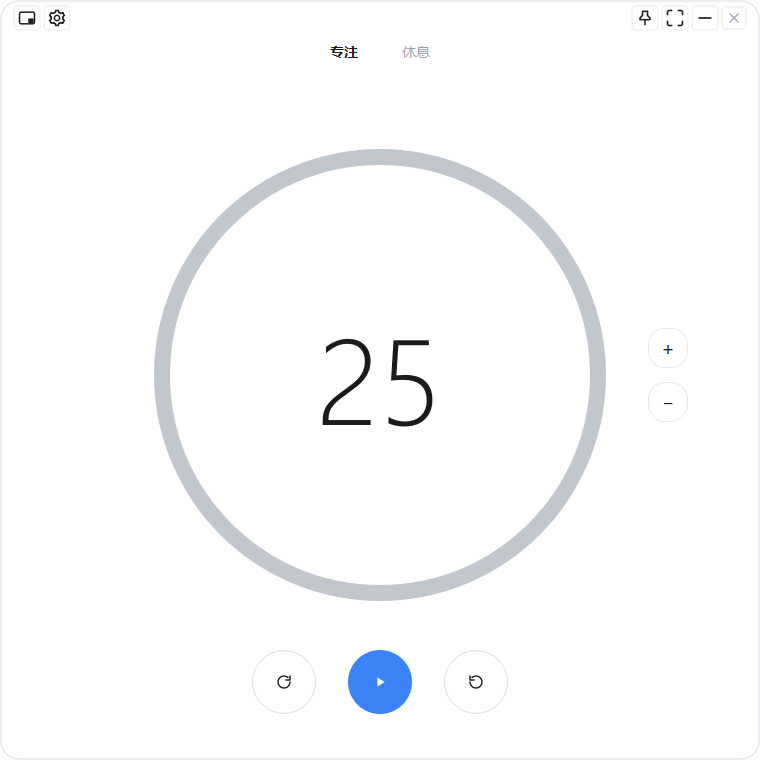
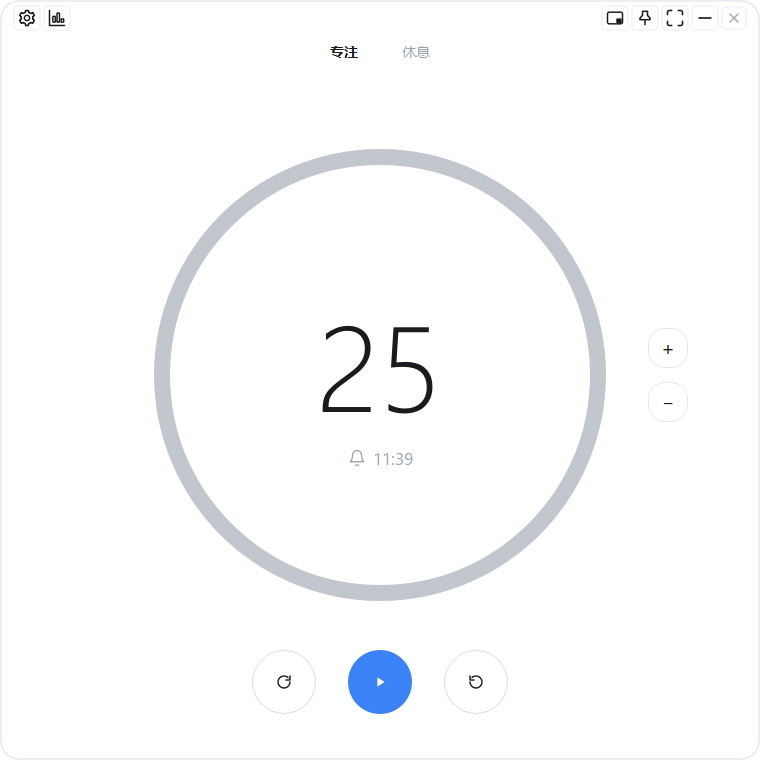
更新

Changed region(s): [[0.4237, 0.4237, 0.575, 0.6053], [0.0303, 0.0, 0.0908, 0.0605], [0.7868, 0.0, 0.8171, 0.0303]]

diff --git a/Bingle时钟设计说明.md b/Bingle时钟设计说明.md
@@ -16,8 +16,8 @@
 | 项   | 内容                                                                  |
 | --- | ------------------------------------------------------------------- |
 | 产品  | Bingle 时钟 —— Windows 桌面极简番茄钟（目录版 exe）                               |
-| 技术栈 | Python 3.14 + PySide6 6.11 + PyInstaller 6.22（--onedir --windowed，单文件版配置见 `Bingle时钟_onefile.spec.bak`） |
-| 产物  | `dist/Bingle时钟/Bingle时钟.exe`（目录版约 87 MB，启动约 1 秒，离线运行，免装 Python）                              |
+| 技术栈 | Python 3.14 + PySide6 6.11 + PyInstaller 6.22（--onedir --windowed） |
+| 产物  | `dist/Bingle时钟/Bingle时钟.exe`（目录版当前约 143 MB，启动约 1 秒，离线运行，免装 Python；分发 zip 约 38 MB）                              |
 | 数据  | `%APPDATA%\PomodoroTimer\config.json`（utf-8-sig 兼容）                 |
 | 音频  | 5 款 Mixkit 免费商用提示音，内嵌于 exe（assets\audio）                            |
 
@@ -63,7 +63,7 @@ pomodoro/
 
 ├── icons.py             内联 SVG → QIcon（黑白线条图标统一出口）
 
-├── widgets.py           TimerRing 自绘圆环进度控件
+├── widgets.py           TimerRing 自绘圆环进度 + FramelessDialog 无边框弹窗基类
 
 ├── main\_window.py       主窗口（无边框圆角、页签、环、操作区、顶栏）
 
@@ -71,7 +71,11 @@ pomodoro/
 
 ├── popup.py             时间到弹窗（右下角、循环音、点任意键关闭）
 
-└── settings\_dialog.py   设置面板（铃声 / 音量 / 开机自启）
+├── settings\_dialog.py   设置面板（铃声 / 音量 / 开机自启）
+
+├── stats.py             专注统计存取（FocusStats，config 内 stats 字段）
+
+└── stats\_dialog.py      专注统计窗口（今日/本周/累计 + 7 天柱状图）
 ```
 
 ### 2.2 计时状态机（state.py）
@@ -110,9 +114,11 @@ pomodoro/
 
 | 窗口             | 要点                                                                                                                     |
 | -------------- | ---------------------------------------------------------------------------------------------------------------------- |
-| MainWindow 主窗  | 无边框（FramelessWindowHint + 圆角 18px + 淡边框 #E1E3E7）、默认 760×760 正方形、min 480×480、WA\_TranslucentBackground、空白处拖动、右下角缩放、全屏切换；顶栏：左[设置]，右[缩小][置顶][全屏][最小化][关闭] |
+| MainWindow 主窗  | 无边框（FramelessWindowHint + 圆角 18px + 淡边框 #E1E3E7）、默认 760×760 正方形、min 480×480、空白处拖动、右下角缩放、全屏切换；顶栏：左[设置][统计]，右[缩小][置顶][全屏][最小化][关闭] |
 | MiniWindow 小窗  | 240×190（可缩放 180×140\~420×320）、置顶、模式名严格居中、时间大号（side×0.24）+ 环进度 + 淡色开始按钮（专注淡蓝 / 休息淡绿）+ 重置 / 开始 / 跳过（32px），右上角放大按钮与双击均可展开回主窗 |
 | PopupWindow 弹窗 | 340×168（内容自适应）、右下角定位（距边缘 24px）、循环提示音（≥10s）、**点任意按钮即停声关窗**；专注结束=开始休息/稍后，休息结束=再休息一会/继续专注/稍后；按钮圆角 6px 等大；**防覆盖**：弹窗期间若用户已在主界面操作，按钮只停声关窗不改状态 |
+| SettingsDialog 设置 | 无边框白底（FramelessDialog 基类）、320×292、顶部标题"设置"+右上角×、可拖动、首次打开居中；提示音选择/试听、音量、开机自启，改动即时生效 |
+| StatsDialog 统计 | 无边框白底（FramelessDialog 基类）、340×285、顶部标题"统计"+右上角×、可拖动、首次打开居中；今日/本周/累计三卡片 + 近 7 天柱状图（自绘）；**打开期间每 5 秒自动刷新**；只统计专注自然走完（跳过/重置不计） |
 
 主窗布局用 **2:3:2 弹性比例**（左右各 20%、中间 60%）控制环的大小：
 
@@ -124,11 +130,15 @@ pomodoro/
 
 
 
-* 配置项：专注时长 / 休息时长 / 专注提示音 / 休息提示音 / 音量 / 置顶 / 开机自启。
+* 配置项：专注时长 / 休息时长 / 专注提示音 / 休息提示音 / 音量 / 置顶 / 开机自启 / 专注统计。
 
 * 写入 `%APPDATA%\PomodoroTimer\config.json`，删除即恢复默认
 
   （专注 25 / 休息 5 / 音量 80 / 不置顶）。
+
+* 专注统计存于同一文件的 `stats` 字段：`{"YYYY-MM-DD": 分钟数}`，按天累计；
+
+  只记录**自然走完的专注**（finished 且模式为专注），跳过 / 重置 / 暂停不计。
 
 * 开机自启通过 Windows 注册表 `HKCU\Software\Microsoft\Windows\CurrentVersion\Run` 写入。
 
@@ -208,6 +218,18 @@ pomodoro/
 
    验证窗口需用 `ctypes.EnumWindows` 全枚举按标题匹配。
 
+9. **弹窗透明背景在部分 Windows 上渲染不可靠**：`FramelessWindowHint + WA_TranslucentBackground`
+
+   曾导致带父窗口的弹窗直接不显示、设置弹窗错位显示不全。修复：弹窗统一改为
+
+   `FramelessDialog` 基类（无边框 + **不透明**白底矩形 + 淡边框 #E1E3E7 + 顶部标题行/关闭按钮），
+
+   `Qt.Tool` 标志避免占任务栏，`showEvent` 首次打开居中（父窗口中心或屏幕中心），按住拖动。
+
+10. **弹窗标题要短**：无边框后无系统标题栏，任务栏标签来自 `setWindowTitle`；统计弹窗
+
+    曾因标题「专注统计 - Bingle时钟」过长被用户诟病，已统一为短名「统计」。
+
 
 
 ***
@@ -220,7 +242,7 @@ pomodoro/
 | --- | -------- | ----------------------------------------------------------------- |
 | 高   | 单实例锁     | 当前可开多个实例，建议用命名互斥体保证单实例，托盘化更好                                      |
 | 高   | 系统托盘     | 关闭按钮改为最小化到托盘，减少误退；提供托盘右键菜单                                        |
-| 中   | exe 体积瘦身 | 已通过 `Bingle时钟.spec` 白名单过滤降至约 37 MB（剔除 WebEngine/opengl32sw/无用插件）；如需再减可尝试 UPX 二次压缩 |
+| 中   | exe 体积瘦身 | 当前目录版 143 MB（PySide6 库占 65 MB）；可再剔除用不到的 Qt 模块/翻译/插件压到约 90 MB，极端可试 UPX 二次压缩（注意杀软误报） |
 | 中   | 高分屏适配    | 建议补充 `Qt.AA_EnableHighDpiScaling` 与 Per-Monitor DPI 测试（当前主窗为逻辑像素） |
 | 中   | 主题扩展     | 当前专注黑白 / 休息绿色点缀；可预留主题配置便于后续换色                                     |
 | 低   | 铃声替换     | 提示音集中在 `assets/audio`，可扩展用户自选铃声目录                                 |
@@ -250,42 +272,47 @@ pomodoro\_app\dist\Bingle时钟\Bingle时钟.exe（目录版，约 87 MB）
 >
 > 的时间戳与真机启动为准。
 >
-> **体积与启动对比**：PySide6 官方 hook 会把 Qt 全家桶（含 194MB 的 WebEngine、FFmpeg、软件 OpenGL）一并打包，
-> 未瘦身时约 55 MB。`Bingle时钟.spec` 通过白名单过滤只保留
-> QtCore/Gui/Widgets/Multimedia/Network/Svg 六个库与必要插件、翻译，
+> **体积与启动**：PySide6 官方 hook 会把 Qt 全家桶（含 194MB 的 WebEngine、FFmpeg、软件 OpenGL）一并打包。
+> `Bingle时钟.spec` 通过白名单过滤只保留 QtCore/Gui/Widgets/Multimedia/Network/Svg 六个库与必要插件、翻译，
 > 剔除 opengl32sw 与无用图片格式插件。
-> 两种交付形式（`Bingle时钟_onefile.spec.bak` 保留单文件配置，可一键重建）：
-> - **目录版 onedir（当前正式版）**：约 87 MB，免解压，实测启动约 **1 秒**（冷 2.6s / 热 0.9s）；
-> - 单文件版 onefile：约 37 MB，每次启动自解压 + 杀毒扫描，实测 **5-7 秒**。
-> 注意：**FFmpeg（av\*.dll）不可删**——QMediaPlayer 播放 mp3 依赖它解码；
-> QtNetwork/QtMultimediaWidgets 的 DLL 必须保留——PySide6 hook 会连带收集对应 pyd，删了启动即崩。
+> - **目录版 onedir（当前正式版）**：exe 本体约 2 MB，加 `_internal`（Python 运行时 + Qt 库）整个目录约 143 MB，
+>   免解压，实测启动约 **1 秒**（冷 2.6s / 热 0.9s）；分发时压缩为 zip 约 **38 MB**（GitHub Releases 附件）。
+> - 体积构成大头：`_internal/PySide6`（Qt 库约 65 MB）、`_internal` 其余（Python 运行时 + 加密库约 20 MB）。
+> - 注意：**FFmpeg（av\*.dll）不可删**——QMediaPlayer 播放 mp3 依赖它解码；
+>   QtNetwork/QtMultimediaWidgets 的 DLL 必须保留——PySide6 hook 会连带收集对应 pyd，删了启动即崩。
 
-### 目录结构（瘦身后）
+### 目录结构（当前）
 
 
 
 ```
-new-chat/
+E:\Code\comate-zulu-demo\Bingle时钟\        # 项目根（已迁入，git 仓库）
 
 ├── pomodoro\_app/                  # 工程（源码 + 打包产物）
 
 │   ├── main.py                    # 入口
 
-│   ├── pomodoro/                  # 源码模块（10 个文件）
+│   ├── pomodoro/                  # 源码模块（13 个文件，见 2.1）
 
 │   ├── assets/audio/              # 内嵌提示音
 
 │   ├── dist/Bingle时钟/           # 交付物（目录版：exe + _internal）
 
-│   ├── Bingle时钟.spec            # PyInstaller 配置（当前 onedir）
+│   ├── dist/Bingle时钟-v1.0.zip   # 分发 zip（Releases 附件，约 38 MB）
 
-│   └── Bingle时钟_onefile.spec.bak # 单文件版配置备份
+│   ├── Bingle时钟.spec            # PyInstaller 配置（onedir）
 
-├── pomodoro\_assets/               # 提示音原始文件（备份）
+│   └── app.ico / app_icon_source.png  # 应用图标
 
-├── pomodoro\_app - 副本/           # 用户备份（勿动）
+├── .gitignore                     # dist/build/备份不入库
+
+├── README.md                      # GitHub 主页
 
 ├── Bingle时钟使用说明.md           # 用户操作手册
 
-└── Bingle时钟设计说明.md           # 本文档
+├── Bingle时钟设计说明.md           # 本文档
+
+├── Bingle时钟项目复盘.md           # 迭代记录
+
+└── Bingle时钟-用户输入原文.md      # 需求原文存档
 ```

diff --git a/Bingle时钟使用说明.md b/Bingle时钟使用说明.md
@@ -8,7 +8,7 @@
 
 ```
 ┌────────────────────────────┐
-│ ⚙        ⧉ 📌 ⛶ ─ ×        │   ← 左上：设置；右上：缩小/置顶/全屏/最小化/关闭
+│ ⚙ ▣      ⧉ 📌 ⛶ ─ ×       │   ← 左上：设置/统计；右上：缩小/置顶/全屏/最小化/关闭
 │     [ 专注 ]   [ 休息 ]     │   ← 页签，随时点击切换模式
 │          ╭──────╮           │
 │          │  25  │           │   ← 点击数字可直接输入分钟（1-180）
@@ -27,6 +27,8 @@
 | ▶ 开始 / ⏸ 暂停 | 同一个按钮，按当前状态切换 |
 | ⟲ 跳过 | 中止当前阶段，直接进入另一模式（待开始，不计时） |
 | ⟳ 重置 | 回到当前模式的初始时长 |
+| ⚙ 设置 | 打开设置面板（提示音 / 音量 / 开机自启） |
+| ▣ 统计 | 打开专注统计窗口（今日/本周/累计 + 近 7 天柱状图） |
 | ─ 最小化 | 最小化到任务栏 |
 | ⛶ 全屏 | 铺满整个屏幕，再点一次还原窗口 |
 | × 关闭 | 退出程序 |
@@ -78,7 +80,16 @@
 
 点击主窗口右上角第一个图标，窗口置顶（始终在最前面），再点一次取消。置顶激活时按钮黑底反白。置顶状态会记住。
 
-## 五、设置（齿轮 ⚙）
+## 五、专注统计（▣）
+
+点击主窗口左上角第二个图标（▣），打开统计窗口，查看专注时长：
+
+- **今日 / 本周 / 累计** 三张卡片 + **近 7 天柱状图**；
+- **只统计自然走完的专注**：跳过、重置、中途暂停都不计；
+- 窗口打开期间**每 5 秒自动刷新**，专注走完回到窗口即可看到最新数据；
+- 数据保存在本地配置文件中，不联网、不收集任何信息。
+
+## 六、设置（齿轮 ⚙）
 
 | 项 | 说明 |
 |---|---|
@@ -87,7 +98,7 @@
 | 音量 | 滑块 0-100 |
 | 开机自启 | 开关（写入注册表启动项） |
 
-## 六、提示音
+## 七、提示音
 
 内置 5 款免费商用提示音（Mixkit 授权，无署名要求）：
 
@@ -97,13 +108,13 @@
 4. Flute Uplifting（轻快笛声）
 5. Magic Ring（魔法铃）
 
-## 七、数据存放
+## 八、数据存放
 
-- 配置文件：`%APPDATA%\PomodoroTimer\config.json`（时长、铃声、音量、置顶、开机自启）
-- 删除该文件即恢复默认：专注 25 分钟 / 休息 5 分钟 / 音量 80
+- 配置文件：`%APPDATA%\PomodoroTimer\config.json`（时长、铃声、音量、置顶、开机自启、专注统计）
+- 删除该文件即恢复默认：专注 25 分钟 / 休息 5 分钟 / 音量 80（统计记录也一并清空）
 - 提示音已打包在 exe 内，不需要额外文件
 
-## 八、卸载
+## 九、卸载
 
 Bingle时钟是绿色应用（目录版），删除整个 `Bingle时钟` 文件夹即可；如需彻底清理，再删除 `%APPDATA%\PomodoroTimer` 文件夹；若开了开机自启，先在设置里关掉。
 

diff --git a/README.md b/README.md
@@ -20,7 +20,7 @@
 ## 技术栈
 
 - Python 3.14 + PySide6
-- 打包：PyInstaller（onedir 模式，约 88MB）
+- 打包：PyInstaller（onedir 模式，目录约 140MB；zip 分发约 38MB）
 - 配置存储：`%APPDATA%\PomodoroTimer\config.json`（含统计）
 
 ## 目录结构
